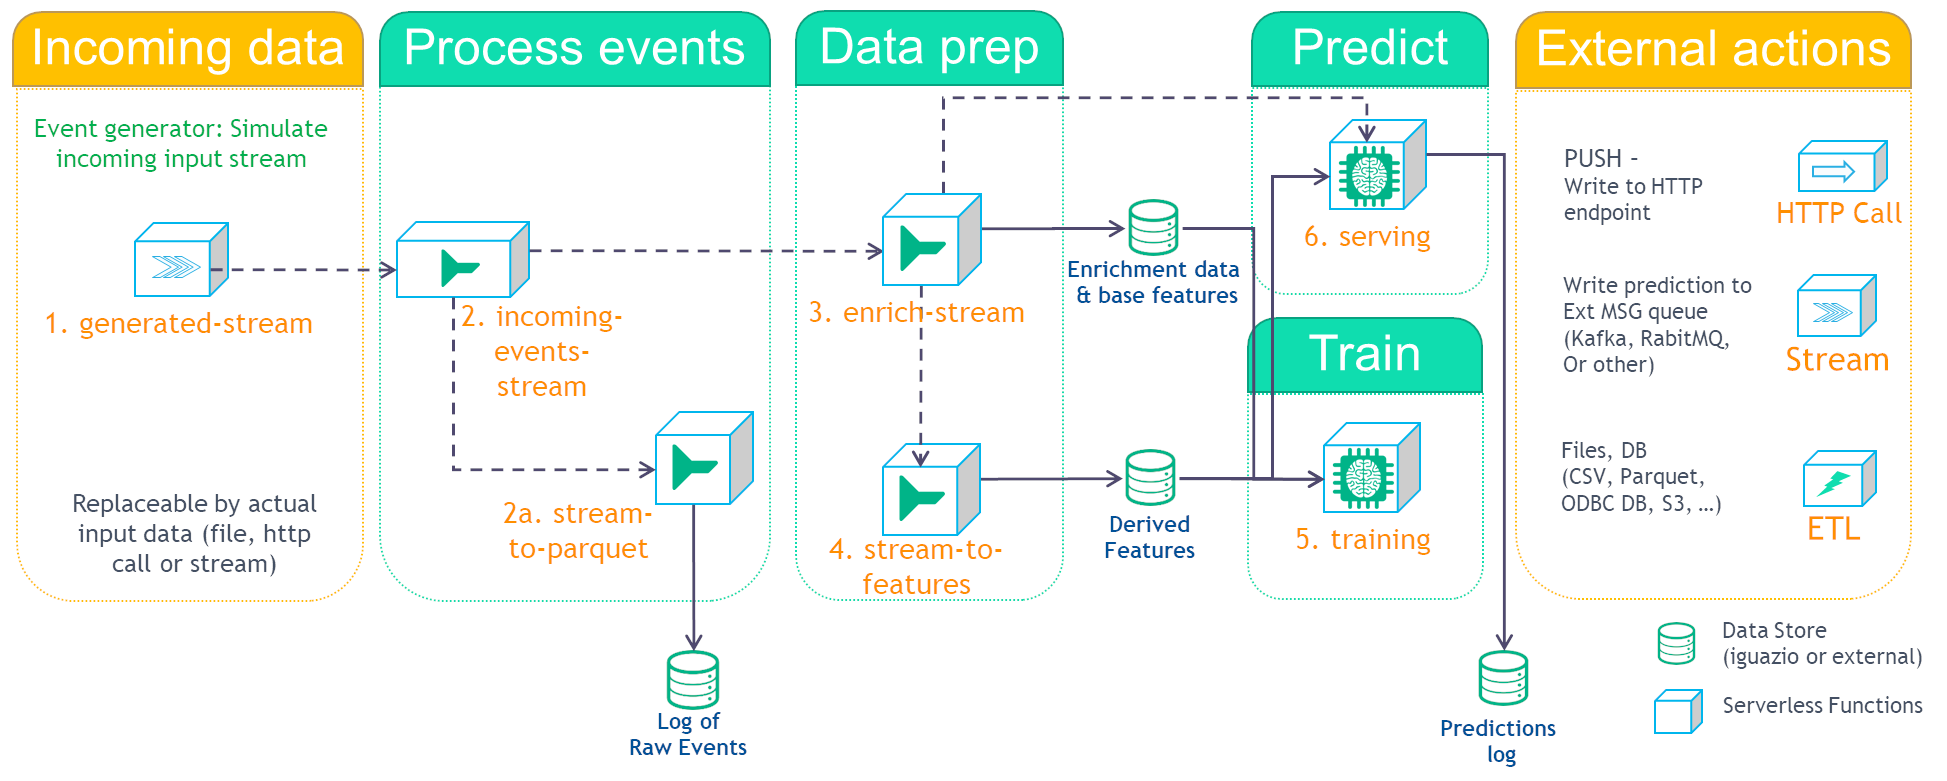
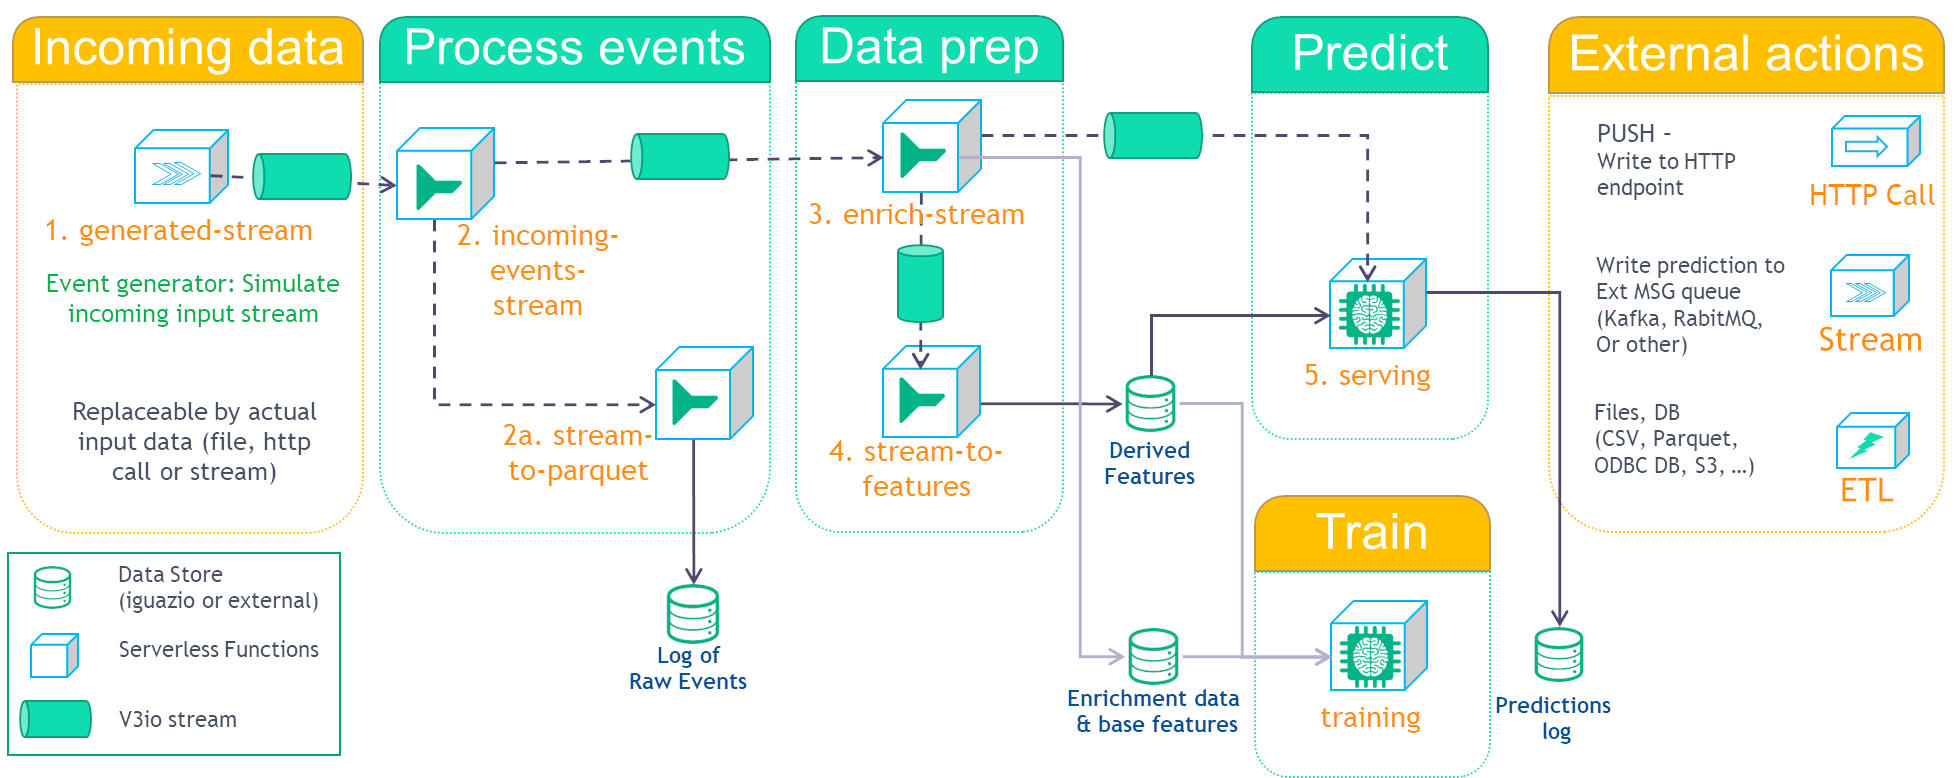
Update Model Deployment with Streaming demo description and diagram

diff --git a/demos/rapid-streaming-ml/README.md b/demos/rapid-streaming-ml/README.md
@@ -1,6 +1,8 @@
 # Model Deployment with Streaming
 
-This demo shows how to deploy a model with streaming information. It is comprised of several steps:
+This demo shows how to deploy a model with streaming information. The demo covers the use case of 1st-day churn. However, it is easy to replace the data, related features and training model and reuse the same workflow for different business cases.
+
+It is comprised of several steps:
 
 ![Model deployment with streaming Real-time operational Pipeline](../../assets/images/model-deployment-with-streaming.png)
 
@@ -13,7 +15,6 @@ These steps are covered by the following notebooks:
 - [**3a. Enrichment table**](3a-enrichment-table.ipynb) - Create an enrichment table (lookup values).
 - [**3b. Enrich stream**](3b-enrich-stream.ipynb) - Enrich the stream using the enrichment table.
 - [**4. Stream to features**](4-stream-to-features.ipynb) - Update aggregation features using the incoming event handler.
-- [**5. Training**](5-training.ipynb) - Train a model using a snapshot of the data.
-- [**6. Serving**](6-serving.ipynb) - Serve the model and process the data from the enriched stream and aggregation features.
-  
-  The demo covers the use case of 1st-day churn. However, it is easy to replace the data, related features and training model and reuse the same workflow for different business cases.
+- [**5. Serving**](5-serving.ipynb) - Serve the model and process the data from the enriched stream and aggregation features.
+
+This demo comes with a pre-trained model using the base features, enrichment data and derived features, calculated using the same generated data. You can retrain the model or train a new model by opening and running the  [**Training notebook**](training.ipynb). You will need to ensure enough data is collected via the streams to the data storage in order to train a new model.
